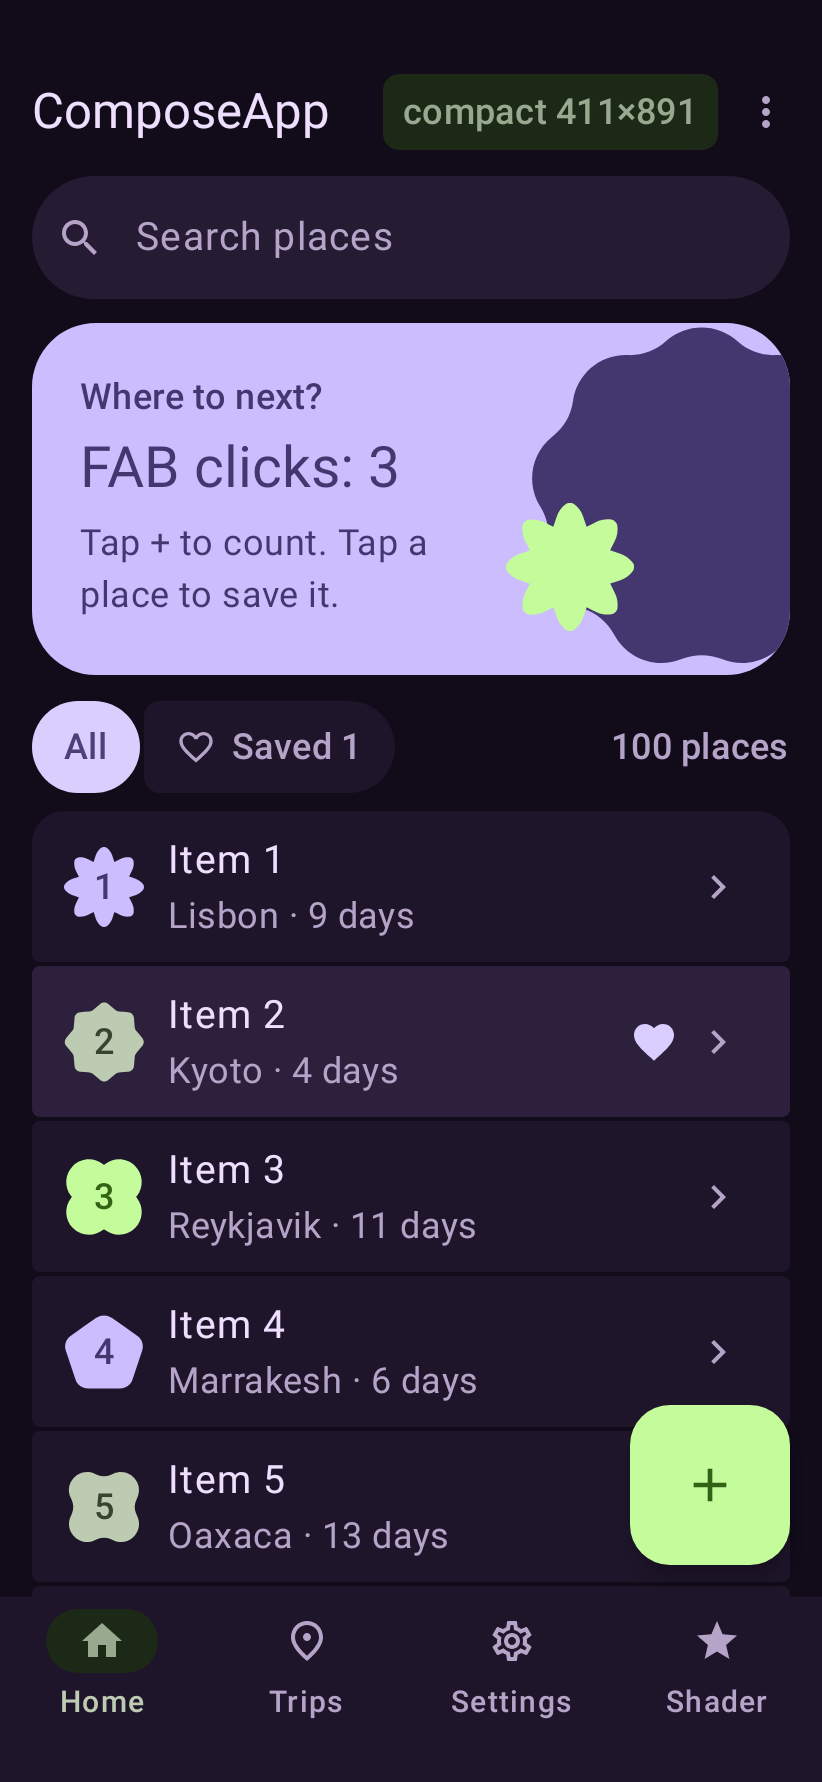
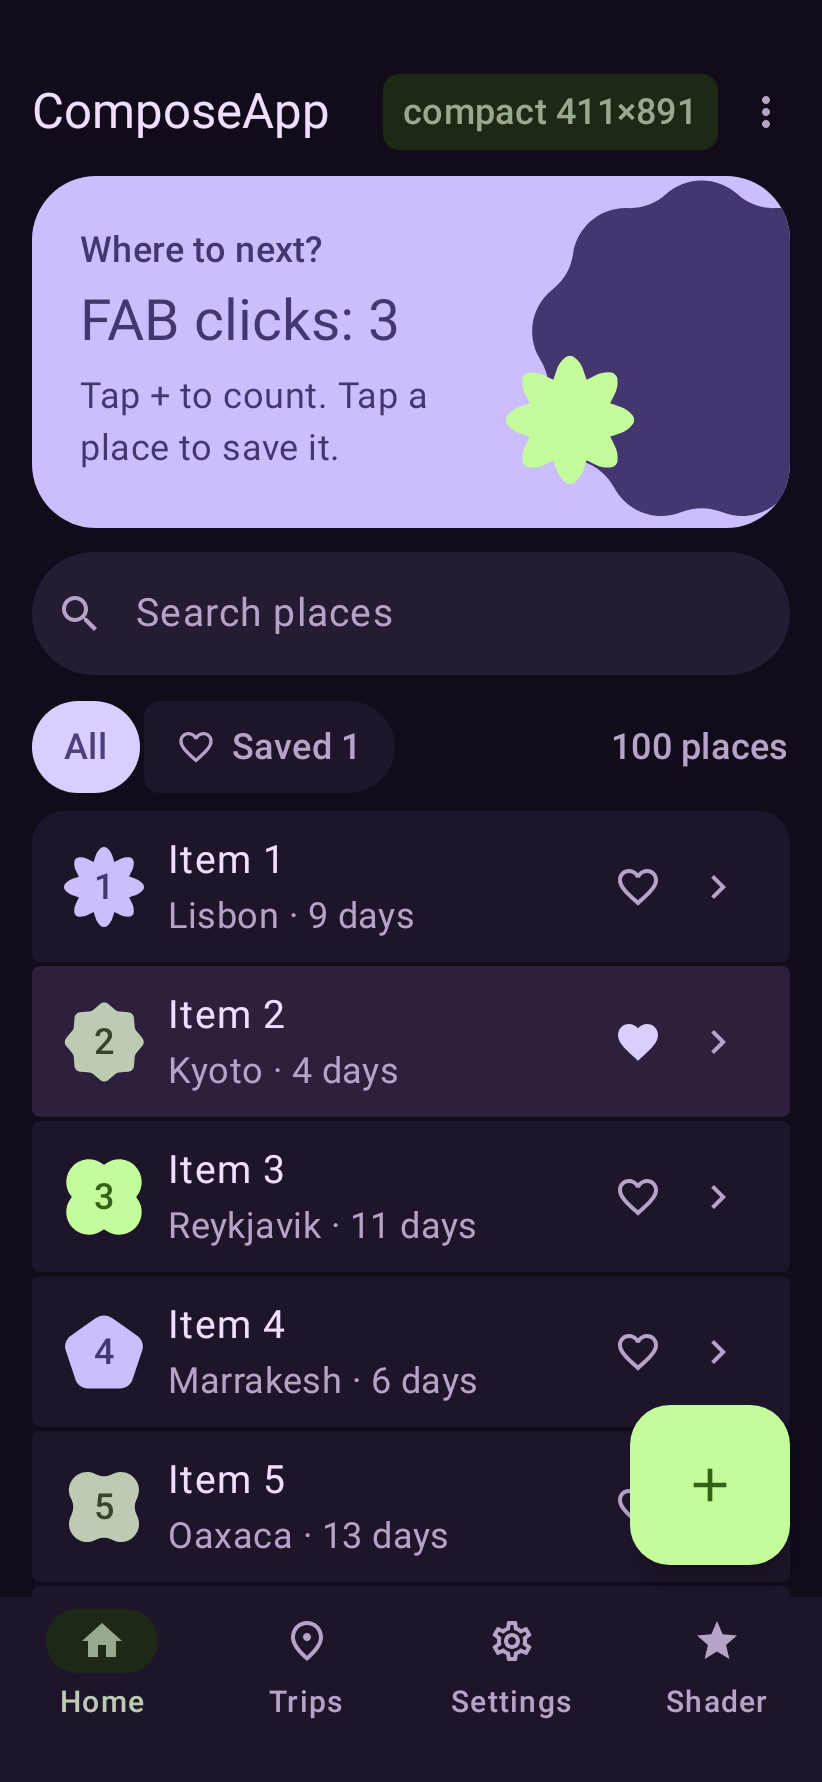
Test app: a heart on every row, so a saved place changes no structure; screenshots retaken
A heart shown only on saved rows broke the crawler's run of identical rows, so each saved row's place made a screen
of its own and two walks found different sets (CI's crawl leg, 1 in 3 here). Every row has a heart toggle now, and the
--base walk finds 8 screens, the same in four runs. The site's screenshots show the counter-first Home.

diff --git a/testapks/composeapp/app/src/main/kotlin/dev/apksim/composeapp/Home.kt b/testapks/composeapp/app/src/main/kotlin/dev/apksim/composeapp/Home.kt
@@ -109,7 +109,7 @@ fun HomeScreen(state: HomeState, count: Int, wide: Boolean, listState: androidx.
               Text(place.name, style = MaterialTheme.typography.titleMedium)
               Text(place.tagline, style = MaterialTheme.typography.bodyMedium, color = MaterialTheme.colorScheme.onSurfaceVariant)
             }
-            PlaceActions(place, i in state.saved, onOpen)
+            PlaceActions(place, i in state.saved, { state.toggle(i) }, onOpen)
           }
         }
       }
@@ -128,18 +128,25 @@ fun HomeScreen(state: HomeState, count: Int, wide: Boolean, listState: androidx.
               if (i in state.saved) MaterialTheme.colorScheme.surfaceContainerHighest else MaterialTheme.colorScheme.surfaceContainer),
           leadingContent = { PlaceBadge(i, 40.dp) },
           supportingContent = { Text(place.tagline) },
-          trailingContent = { PlaceActions(place, i in state.saved, onOpen) },
+          trailingContent = { PlaceActions(place, i in state.saved, { state.toggle(i) }, onOpen) },
         ) { Text(place.name) }
       }
     }
   }
 }
 
-/** The saved mark, and the way to a place's page. */
+/**
+ * The saved mark, a toggle on every row whether saved or not, and the way to a place's page. Saving changes a row's
+ * state, never its structure, so saved and unsaved rows are alike to a crawler (scripts/crawl.py writes a run of
+ * identical rows once; a heart shown only on saved rows made each saved row's place a screen of its own).
+ */
 @Composable
-private fun PlaceActions(place: Place, saved: Boolean, onOpen: (Int) -> Unit) {
+private fun PlaceActions(place: Place, saved: Boolean, onToggle: () -> Unit, onOpen: (Int) -> Unit) {
   Row(verticalAlignment = Alignment.CenterVertically) {
-    if (saved) Icon(Icons.Filled.Favorite, "Saved", tint = MaterialTheme.colorScheme.primary)
+    IconToggleButton(saved, { onToggle() }) {
+      Icon(if (saved) Icons.Filled.Favorite else Icons.Outlined.FavoriteBorder, if (saved) "Saved" else "Save ${place.name}",
+          tint = if (saved) MaterialTheme.colorScheme.primary else MaterialTheme.colorScheme.onSurfaceVariant)
+    }
     IconButton({ onOpen(place.number) }) { Icon(Icons.AutoMirrored.Filled.KeyboardArrowRight, "Open ${place.name}") }
   }
 }

diff --git a/AGENTS.md b/AGENTS.md
@@ -896,8 +896,10 @@ Read README.md for results and limits; this file covers how to work on the code.
 - `testapks/composeapp`: the test app, and the sample app Greenroom ships (each release's `apksim-testapp-VERSION.apk`).
   Material 3 Expressive (material3 1.5.0's `MaterialExpressiveTheme`, expressive motion, its own colour roles in
   `ui/theme/Color.kt`, generated from seed #6A3DE8 with the 2025 colour spec's expressive variant; edge to edge). Home
-  (`Home.kt`) has a search field, a counter card ("FAB clicks: N", its shapes turning a notch per count), an All/Saved
-  filter and a list of 100 places ("Item N", a segmented list: a tap saves one, its arrow opens the place's page);
+  (`Home.kt`) has a counter card ("FAB clicks: N", its shapes turning a notch per count; first, so a watch shows it), a
+  search field, an All/Saved filter and a list of 100 places ("Item N", a segmented list: a tap or the row's heart
+  saves one, its arrow opens the place's page; every row has the heart, so saving changes no row's structure, which
+  `crawl.py` would otherwise count as a screen per saved row);
   the place's page (`Detail.kt`: a large flexible app bar, a floating toolbar, a date picker, a slider, a single choice,
   checkboxes, a confirmation dialog, a snackbar; Back returns); Trips (`Trips.kt`; SQLite rename: "Italian vacation" ↔
   "Roman vacation"); Settings (grouped sections); and a **Shader** tab, a full-screen unthrottled noise shader used as
